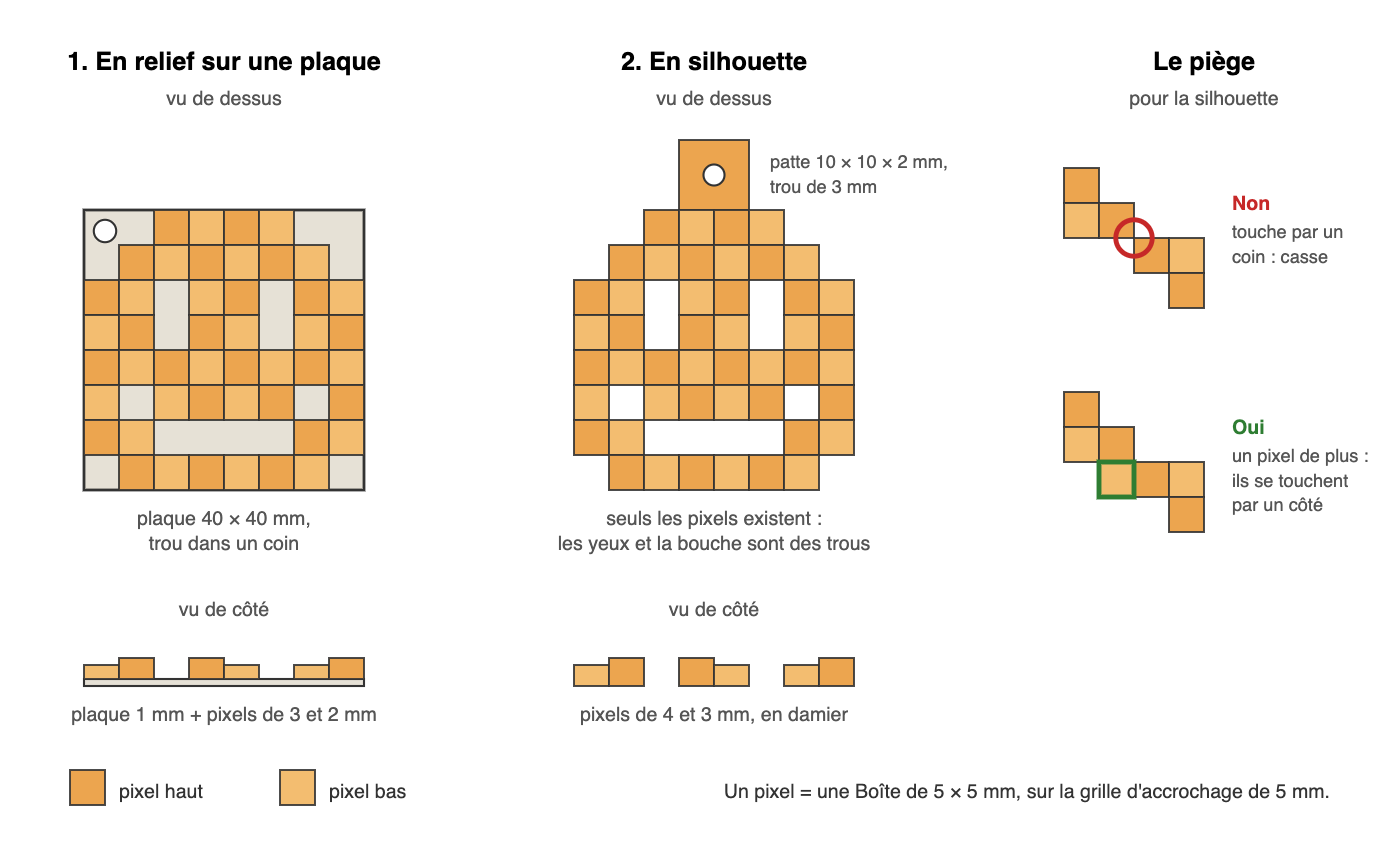
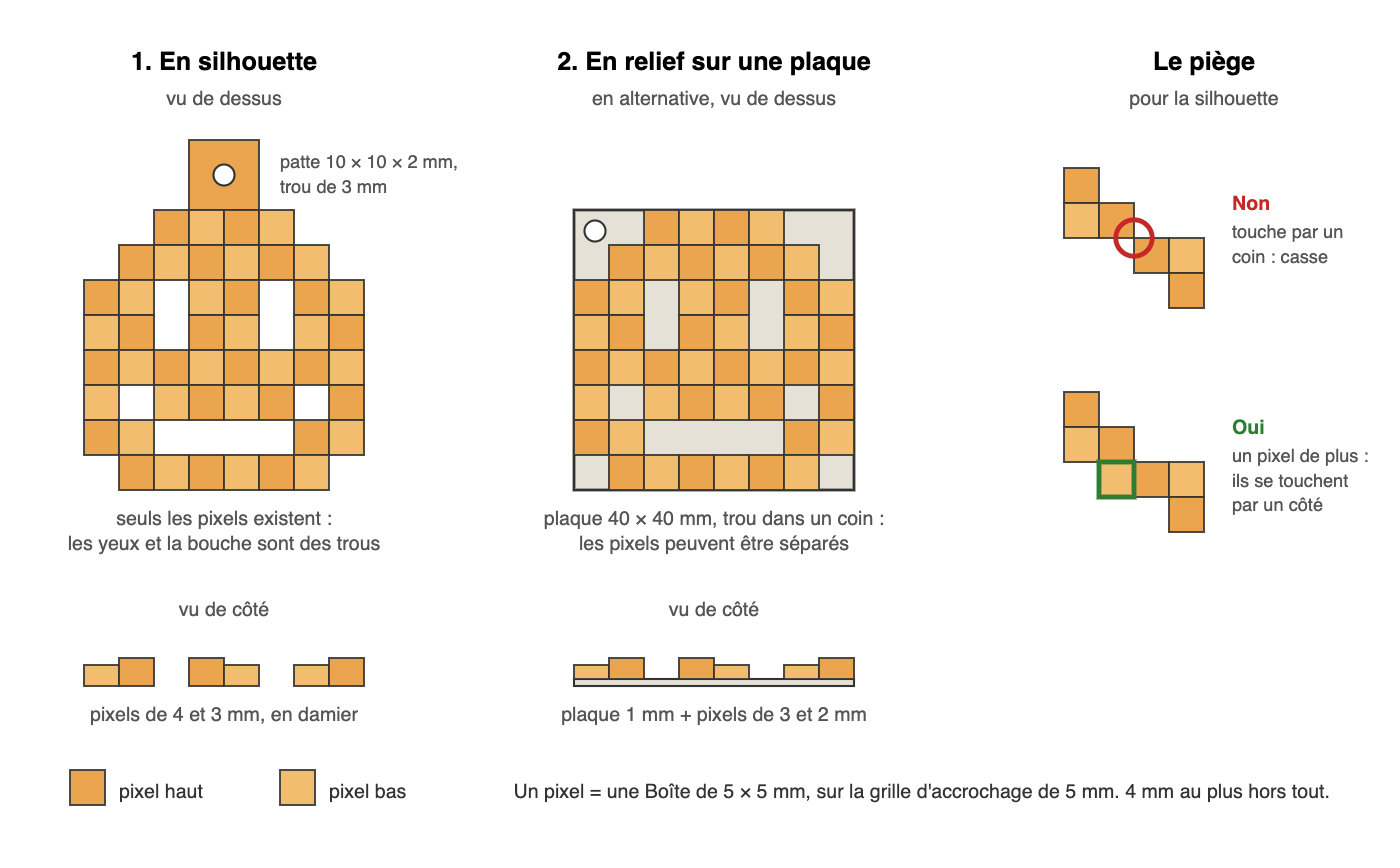
Séance 4 : la silhouette en premier dans le schéma, la plaque en alternative ; script du schéma

diff --git a/outils/plans/schema_porte_cles.py b/outils/plans/schema_porte_cles.py
@@ -1,0 +1,77 @@
+"""Schéma de la séance 4 Objets connectés : le porte-clés pixel en silhouette, en relief sur plaque, et le piège.
+
+python3 outils/plans/schema_porte_cles.py > docs/assets/objets-connectes-s04/25-silhouette-relief-piege.svg
+"""
+P = 5  # mm par pixel
+FACE = ["..XXXX..", ".XXXXXX.", "XX.XX.XX", "XX.XX.XX", "XXXXXXXX", "X.XXXX.X", "XX....XX", ".XXXXXX."]
+HAUT, BAS = "#eca54f", "#f3bd70"   # pixel haut, pixel bas : deux tons proches, le dessin se lit d'un bloc
+s = []
+
+
+def T(x, y, t, sz=2.8, c="#555", w="normal", a="middle"):
+    s.append(f'<text x="{x}" y="{y}" font-size="{sz}" fill="{c}" font-weight="{w}" text-anchor="{a}">{t}</text>')
+
+
+def couleur(r, c):
+    return HAUT if (r + c) % 2 == 0 else BAS
+
+
+def pixels(ox, oy, grille):
+    for r, rang in enumerate(grille):
+        for c, ch in enumerate(rang):
+            if ch == "X":
+                s.append(f'<rect x="{ox + c * P}" y="{oy + r * P}" width="{P}" height="{P}" fill="{couleur(r, c)}" stroke="#333" stroke-width="0.25"/>')
+
+
+def profil(ox, sol, plaque, haut, bas):
+    """Vue de côté de la rangée 3 du visage : la plaque éventuelle, puis les pixels en damier."""
+    dessus = sol - plaque
+    if plaque:
+        s.append(f'<rect x="{ox}" y="{dessus}" width="40" height="{plaque}" fill="#e6e1d6" stroke="#333" stroke-width="0.3"/>')
+    r = 3
+    for c, ch in enumerate(FACE[r]):
+        if ch == "X":
+            h = haut if (r + c) % 2 == 0 else bas
+            s.append(f'<rect x="{ox + c * P}" y="{dessus - h}" width="{P}" height="{h}" fill="{couleur(r, c)}" stroke="#333" stroke-width="0.25"/>')
+
+
+s.append('<svg xmlns="http://www.w3.org/2000/svg" viewBox="0 0 200 124" width="200mm" height="124mm" font-family="Helvetica, Arial, sans-serif">')
+s.append('<title>Le porte-clés pixel : en silhouette, en relief sur une plaque, et le piège du contact par un coin</title>')
+s.append('<rect width="200" height="124" fill="#fff"/>')
+
+# 1. En silhouette
+ox, oy = 12, 30
+T(32, 10, "1. En silhouette", 3.6, "#000", "bold"); T(32, 15, "vu de dessus")
+s.append(f'<rect x="{ox + 15}" y="{oy - 10}" width="10" height="10" fill="{HAUT}" stroke="#333" stroke-width="0.25"/>')
+s.append(f'<circle cx="{ox + 20}" cy="{oy - 5}" r="1.5" fill="#fff" stroke="#333" stroke-width="0.3"/>')
+pixels(ox, oy, FACE)
+T(ox + 28, oy - 6, "patte 10 × 10 × 2 mm,", 2.6, "#555", "normal", "start"); T(ox + 28, oy - 2.5, "trou de 3 mm", 2.6, "#555", "normal", "start")
+T(ox + 20, oy + 45, "seuls les pixels existent :"); T(ox + 20, oy + 48.5, "les yeux et la bouche sont des trous")
+T(32, 88, "vu de côté"); profil(ox, 98, 0, 4, 3); T(ox + 20, 103, "pixels de 4 et 3 mm, en damier")
+
+# 2. En relief sur une plaque
+ox, oy = 82, 30
+T(102, 10, "2. En relief sur une plaque", 3.6, "#000", "bold"); T(102, 15, "en alternative, vu de dessus")
+s.append(f'<rect x="{ox}" y="{oy}" width="40" height="40" fill="#e6e1d6" stroke="#333" stroke-width="0.4"/>')
+s.append(f'<circle cx="{ox + 3}" cy="{oy + 3}" r="1.5" fill="#fff" stroke="#333" stroke-width="0.3"/>')
+pixels(ox, oy, FACE)
+T(ox + 20, oy + 45, "plaque 40 × 40 mm, trou dans un coin :"); T(ox + 20, oy + 48.5, "les pixels peuvent être séparés")
+T(102, 88, "vu de côté"); profil(ox, 98, 1, 3, 2); T(ox + 20, 103, "plaque 1 mm + pixels de 3 et 2 mm")
+
+# Le piège
+ox = 152
+T(172, 10, "Le piège", 3.6, "#000", "bold"); T(172, 15, "pour la silhouette")
+pixels(ox, 24, ["X...", "XX..", "..XX", "...X"])
+s.append(f'<circle cx="{ox + 10}" cy="34" r="2.6" fill="none" stroke="#c62828" stroke-width="0.7"/>')
+T(ox + 24, 30, "Non", 2.8, "#c62828", "bold", "start"); T(ox + 24, 34, "touche par un", 2.6, "#555", "normal", "start"); T(ox + 24, 37.5, "coin : casse", 2.6, "#555", "normal", "start")
+pixels(ox, 56, ["X...", "XX..", ".XXX", "...X"])
+s.append(f'<rect x="{ox + 5}" y="66" width="5" height="5" fill="none" stroke="#2e7d32" stroke-width="0.7"/>')
+T(ox + 24, 62, "Oui", 2.8, "#2e7d32", "bold", "start"); T(ox + 24, 66, "un pixel de plus :", 2.6, "#555", "normal", "start")
+T(ox + 24, 69.5, "ils se touchent", 2.6, "#555", "normal", "start"); T(ox + 24, 73, "par un côté", 2.6, "#555", "normal", "start")
+
+# Légende
+s.append(f'<rect x="10" y="110" width="5" height="5" fill="{HAUT}" stroke="#333" stroke-width="0.25"/>'); T(17, 114, "pixel haut", 2.8, "#333", "normal", "start")
+s.append(f'<rect x="40" y="110" width="5" height="5" fill="{BAS}" stroke="#333" stroke-width="0.25"/>'); T(47, 114, "pixel bas", 2.8, "#333", "normal", "start")
+T(190, 114, "Un pixel = une Boîte de 5 × 5 mm, sur la grille d'accrochage de 5 mm. 4 mm au plus hors tout.", 2.8, "#333", "normal", "end")
+s.append("</svg>")
+print("\n".join(s))

diff --git a/docs/projets/objets-connectes/seances/s04-dessine-ton-porte-cles.md b/docs/projets/objets-connectes/seances/s04-dessine-ton-porte-cles.md
@@ -62,7 +62,7 @@ Sélectionne un pixel sur deux, en damier, en maintenant <kbd>Maj</kbd>. Règle 
 Ton porte-clés peut prendre deux formes. En silhouette, seuls les pixels existent : chacun doit toucher un voisin par un côté. En relief sur une plaque, la plaque tient tout : les pixels peuvent être séparés.
 
 <figure markdown>
-![Vu de dessus : à gauche, le smiley en relief sur une plaque ; au milieu, le smiley en silhouette avec sa patte de porte-clés ; à droite, deux pixels qui ne se touchent que par un coin, puis le pixel ajouté qui les relie par un côté](../../../assets/objets-connectes-s04/25-silhouette-relief-piege.png)
+![Vu de dessus : à gauche, le smiley en silhouette avec sa patte de porte-clés ; au milieu, en alternative, le smiley en relief sur une plaque ; à droite, deux pixels qui ne se touchent que par un coin, puis le pixel ajouté qui les relie par un côté](../../../assets/objets-connectes-s04/25-silhouette-relief-piege.png)
 </figure>
 
 ## 2. Ton dessin
